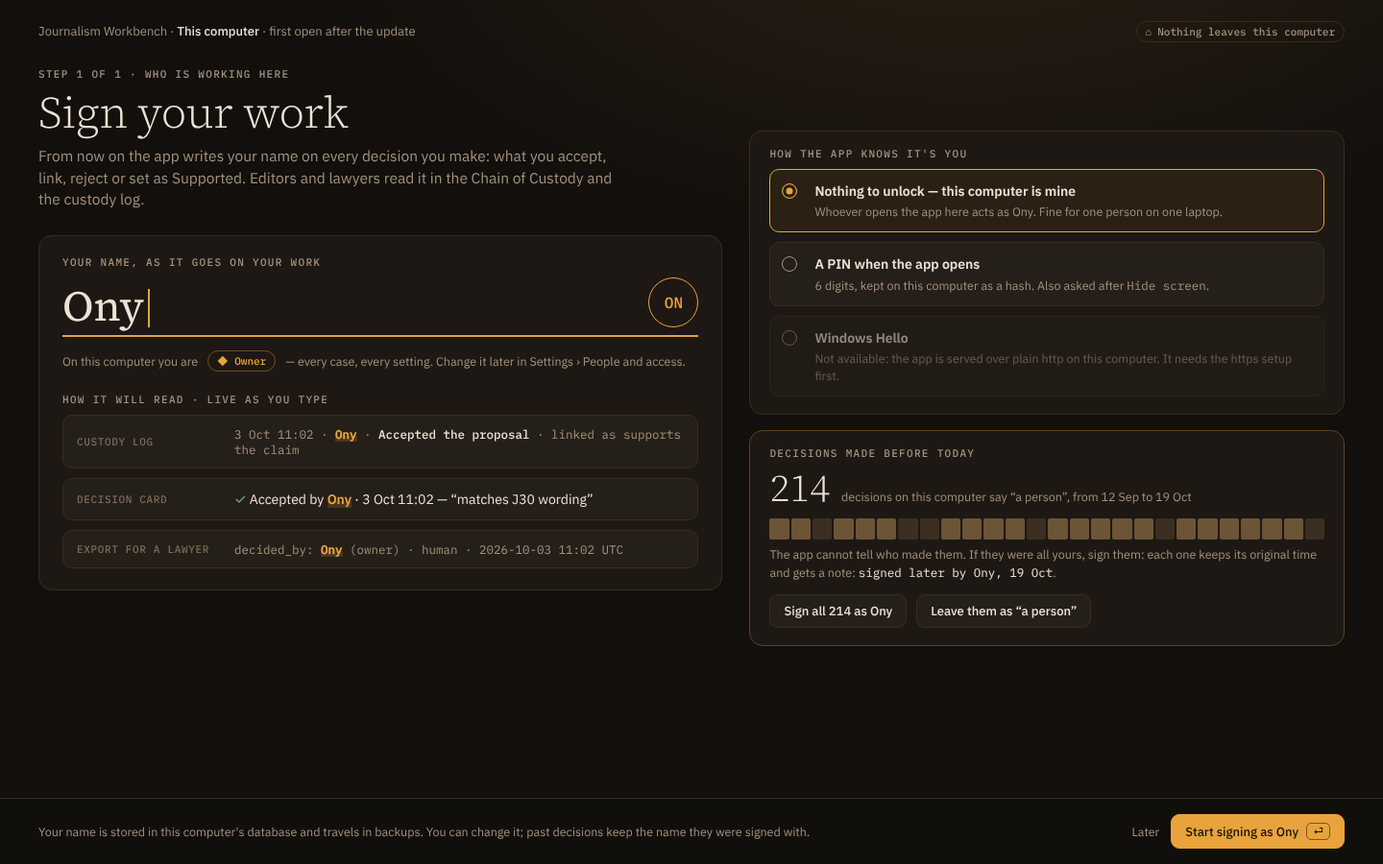
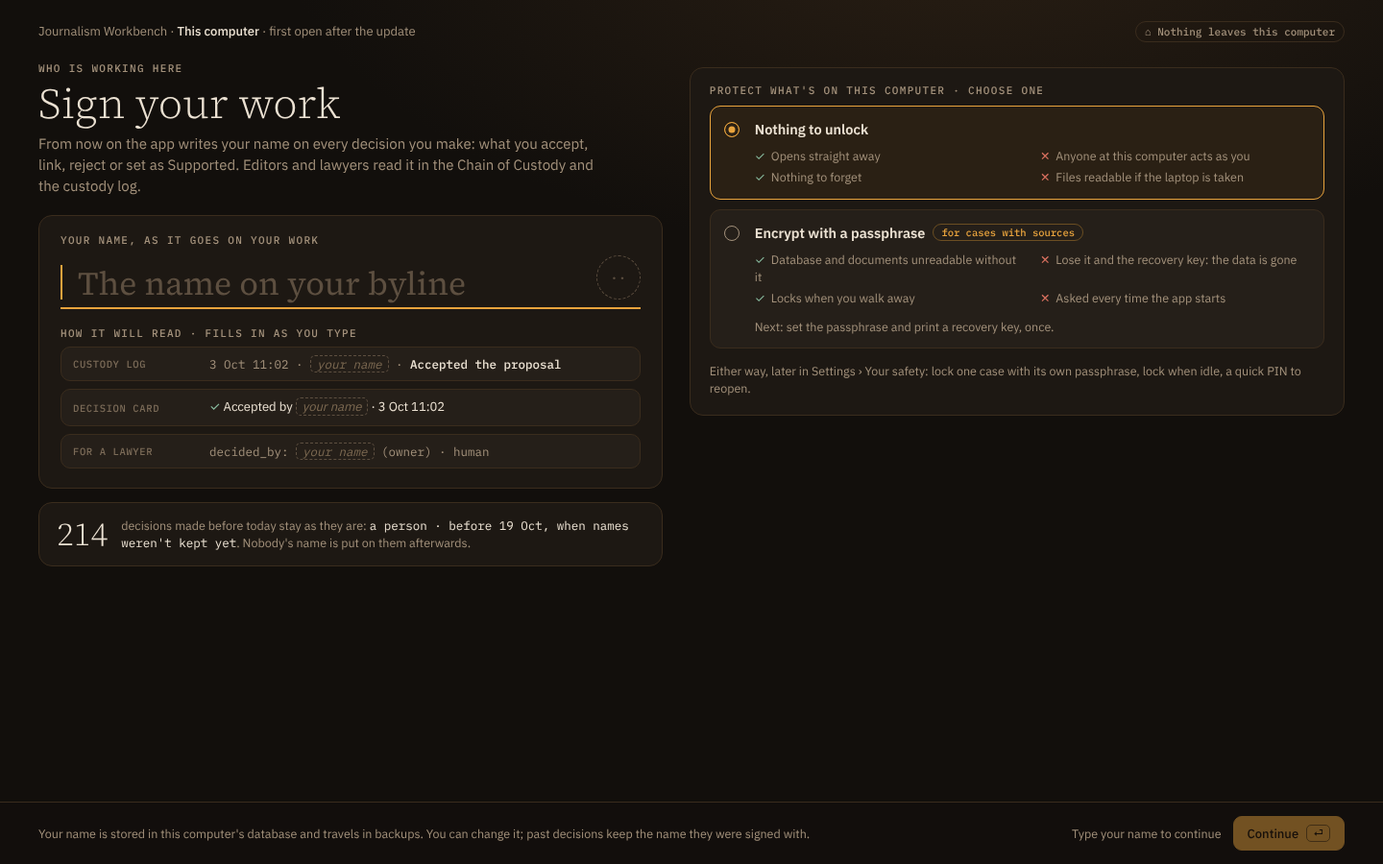
Proposed account mockups, second round: no signing for anyone, passphrase encryption, recovery key, locking (ACCOUNT_1-4)
Claude-Session: https://claude.ai/code/session_01PApySommmJ28kG56PUf4Xq

diff --git a/docs/design/mockups/proposed/ACCOUNT_1-sign-your-work.html b/docs/design/mockups/proposed/ACCOUNT_1-sign-your-work.html
@@ -1,68 +1,67 @@
 <!doctype html><html><head><meta charset="utf-8"><link rel="stylesheet" href="account.css"><style>
 .top{display:flex;justify-content:space-between;align-items:center;padding:22px 40px}
 .crumb{font-size:13px;color:var(--muted)} .crumb b{color:var(--text);font-weight:500}
-.wrap{display:grid;grid-template-columns:1.15fr 1fr;gap:28px;padding:6px 40px 0}
-h1{font:300 46px/1.05 'Source Serif 4 Variable';letter-spacing:-.01em;margin:10px 0 10px}
-.lede{color:var(--muted);font-size:15.5px;max-width:610px}
-.namebox{margin-top:26px;padding:22px 24px}
+.wrap{display:grid;grid-template-columns:1fr 1.05fr;gap:28px;padding:0 40px}
+h1{font:300 44px/1.05 'Source Serif 4 Variable';margin:8px 0 8px}
+.lede{color:var(--muted);font-size:15px;max-width:580px}
+.namebox{margin-top:20px;padding:20px 22px}
 .field{display:flex;align-items:flex-end;gap:16px;border-bottom:2px solid var(--amber);padding-bottom:8px;margin-top:10px}
-.field .val{font:400 44px/1 'Source Serif 4 Variable'}
-.caret{width:2px;height:40px;background:var(--amber);margin-left:-12px}
-.initials{margin-left:auto;width:52px;height:52px;border-radius:50%;border:1.5px solid var(--amber);display:grid;place-items:center;font:500 16px 'IBM Plex Mono';color:var(--amber)}
-.role{display:flex;gap:10px;margin-top:14px;align-items:center}
-.reads{margin-top:18px;display:grid;gap:10px}
-.read{display:grid;grid-template-columns:150px 1fr;gap:14px;align-items:center;padding:11px 14px;background:var(--p2);border:1px solid var(--line);border-radius:10px}
-.read .where{font:500 11px 'IBM Plex Mono';color:var(--faint);letter-spacing:.06em;text-transform:uppercase}
-.name{color:var(--amber);font-weight:600;background:linear-gradient(transparent 60%,rgba(232,163,61,.18) 0)}
+.ph{font:400 34px/1 'Source Serif 4 Variable';color:#5d4f40}
+.caret{width:2px;height:36px;background:var(--amber)}
+.initials{margin-left:auto;width:46px;height:46px;border-radius:50%;border:1.5px dashed #5d4f40;display:grid;place-items:center;font:500 14px 'IBM Plex Mono';color:#5d4f40}
+.reads{margin-top:16px;display:grid;gap:8px}
+.read{display:grid;grid-template-columns:130px 1fr;gap:12px;align-items:center;padding:9px 12px;background:var(--p2);border:1px solid var(--line);border-radius:10px;font-size:13px}
+.read .where{font:500 10.5px 'IBM Plex Mono';color:var(--faint);letter-spacing:.06em;text-transform:uppercase}
+.slot{color:#7d6a52;border:1px dashed #5d4f40;border-radius:5px;padding:0 6px;font-style:italic}
 .logrow{font:12.5px 'IBM Plex Mono';color:var(--muted)} .logrow b{color:var(--text);font-weight:500}
-.right{display:grid;gap:16px;align-content:start;margin-top:64px}
-.unlock{padding:18px 20px}
-.opt{display:grid;grid-template-columns:22px 1fr;gap:12px;padding:12px 12px;border:1px solid var(--line);border-radius:10px;margin-top:10px;background:var(--p2)}
+.before{margin-top:14px;padding:14px 18px;display:grid;grid-template-columns:auto 1fr;gap:14px;align-items:center}
+.count{font:300 34px/1 'Source Serif 4 Variable'}
+.right{padding-top:4px}
+.prot{padding:18px 20px}
+.opt{display:grid;grid-template-columns:20px 1fr;gap:12px;padding:13px 14px;border:1px solid var(--line);border-radius:11px;margin-top:10px;background:var(--p2)}
 .opt.on{border-color:var(--amber);background:#2a2014}
-.radio{width:16px;height:16px;border-radius:50%;border:1.5px solid var(--muted);margin-top:2px}
+.radio{width:16px;height:16px;border-radius:50%;border:1.5px solid var(--muted);margin-top:3px}
 .opt.on .radio{border-color:var(--amber);box-shadow:inset 0 0 0 3.5px #2a2014;background:var(--amber)}
-.opt b{font-weight:600} .opt small{display:block;color:var(--muted);font-size:12.5px;margin-top:2px}
-.opt.off{opacity:.55}
-.past{padding:18px 20px;border-color:#5b4422}
-.count{font:300 40px/1 'Source Serif 4 Variable';color:var(--text)}
-.bar{display:flex;gap:2px;margin:12px 0 6px;height:22px}
-.bar i{flex:1;border-radius:2px;background:#3b2f22}
-.bar i.d{background:#6b5536}
-.foot{position:absolute;left:0;right:0;bottom:0;display:flex;justify-content:space-between;align-items:center;padding:16px 40px;border-top:1px solid var(--line);background:rgba(18,15,12,.85)}
+.opt b{font-weight:600;font-size:14.5px}
+.pp{display:grid;grid-template-columns:1fr 1fr;gap:4px 16px;margin-top:8px;font-size:12.5px;color:var(--muted)}
+.pp span:before{margin-right:6px}
+.pp .y:before{content:'✓';color:var(--ok)} .pp .n:before{content:'✕';color:var(--bad)}
+.tag{font:500 10.5px 'IBM Plex Mono';border:1px solid #6b4e22;color:var(--amber);border-radius:999px;padding:1px 8px;margin-left:8px;vertical-align:2px}
+.extra{margin-top:12px;font-size:12.5px;color:var(--muted)}
+.foot{position:absolute;left:0;right:0;bottom:0;display:flex;justify-content:space-between;align-items:center;padding:14px 40px;border-top:1px solid var(--line);background:rgba(18,15,12,.88)}
 </style></head><body>
-<div class="top"><div class="crumb">Journalism Workbench · <b>This computer</b> · first open after the update</div><span class="chip"><span>⌂</span> Nothing leaves this computer</span></div>
+<div class="top"><div class="crumb">Journalism Workbench · <b>This computer</b> · first open after the update</div><span class="chip">⌂ Nothing leaves this computer</span></div>
 <div class="wrap">
  <div>
-  <p class="eyebrow">Step 1 of 1 · who is working here</p>
+  <p class="eyebrow">Who is working here</p>
   <h1>Sign your work</h1>
   <p class="lede">From now on the app writes your name on every decision you make: what you accept, link, reject or set as Supported. Editors and lawyers read it in the Chain of Custody and the custody log.</p>
   <div class="panel namebox">
    <p class="eyebrow">Your name, as it goes on your work</p>
-   <div class="field"><span class="val">Ony</span><span class="caret"></span><span class="initials">ON</span></div>
-   <div class="role"><span class="note">On this computer you are</span><span class="chip amber">◆ Owner</span><span class="note">— every case, every setting. Change it later in Settings › People and access.</span></div>
+   <div class="field"><span class="caret"></span><span class="ph">The name on your byline</span><span class="initials">··</span></div>
    <div class="reads">
-    <p class="eyebrow" style="margin-top:6px">How it will read · live as you type</p>
-    <div class="read"><span class="where">Custody log</span><span class="logrow">3 Oct 11:02 · <span class="name">Ony</span> · <b>Accepted the proposal</b> · linked as supports the claim</span></div>
-    <div class="read"><span class="where">Decision card</span><span><span style="color:var(--ok)">✓</span> Accepted by <span class="name">Ony</span> · 3 Oct 11:02 — “matches J30 wording”</span></div>
-    <div class="read"><span class="where">Export for a lawyer</span><span class="logrow">decided_by: <span class="name">Ony</span> (owner) · human · 2026-10-03 11:02 UTC</span></div>
+    <p class="eyebrow" style="margin-top:4px">How it will read · fills in as you type</p>
+    <div class="read"><span class="where">Custody log</span><span class="logrow">3 Oct 11:02 · <span class="slot">your name</span> · <b>Accepted the proposal</b></span></div>
+    <div class="read"><span class="where">Decision card</span><span><span style="color:var(--ok)">✓</span> Accepted by <span class="slot">your name</span> · 3 Oct 11:02</span></div>
+    <div class="read"><span class="where">For a lawyer</span><span class="logrow">decided_by: <span class="slot">your name</span> (owner) · human</span></div>
    </div>
+  </div>
+  <div class="panel before">
+   <span class="count">214</span>
+   <span class="note">decisions made before today stay as they are: <span class="mono" style="color:var(--text)">a person · before 19 Oct, when names weren't kept yet</span>. Nobody's name is put on them afterwards.</span>
   </div>
  </div>
  <div class="right">
-  <div class="panel unlock">
-   <p class="eyebrow">How the app knows it's you</p>
-   <div class="opt on"><span class="radio"></span><div><b>Nothing to unlock — this computer is mine</b><small>Whoever opens the app here acts as Ony. Fine for one person on one laptop.</small></div></div>
-   <div class="opt"><span class="radio"></span><div><b>A PIN when the app opens</b><small>6 digits, kept on this computer as a hash. Also asked after <span class="mono">Hide screen</span>.</small></div></div>
-   <div class="opt off"><span class="radio"></span><div><b>Windows Hello</b><small>Not available: the app is served over plain http on this computer. It needs the https setup first.</small></div></div>
-  </div>
-  <div class="panel past">
-   <p class="eyebrow">Decisions made before today</p>
-   <div style="display:flex;align-items:baseline;gap:12px;margin-top:10px"><span class="count">214</span><span class="note">decisions on this computer say “a person”, from 12 Sep to 19 Oct</span></div>
-   <div class="bar"><i class="d"></i><i class="d"></i><i></i><i class="d"></i><i class="d"></i><i class="d"></i><i></i><i></i><i class="d"></i><i class="d"></i><i class="d"></i><i class="d"></i><i></i><i class="d"></i><i class="d"></i><i class="d"></i><i class="d"></i><i class="d"></i><i></i><i class="d"></i><i class="d"></i><i class="d"></i><i class="d"></i><i class="d"></i><i class="d"></i><i></i></div>
-   <p class="note">The app cannot tell who made them. If they were all yours, sign them: each one keeps its original time and gets a note: <span class="mono" style="color:var(--text)">signed later by Ony, 19 Oct</span>.</p>
-   <div style="display:flex;gap:10px;margin-top:14px"><button class="btn">Sign all 214 as Ony</button><button class="btn">Leave them as “a person”</button></div>
+  <div class="panel prot">
+   <p class="eyebrow">Protect what's on this computer · choose one</p>
+   <div class="opt on"><span class="radio"></span><div><b>Nothing to unlock</b>
+    <div class="pp"><span class="y">Opens straight away</span><span class="n">Anyone at this computer acts as you</span><span class="y">Nothing to forget</span><span class="n">Files readable if the laptop is taken</span></div></div></div>
+   <div class="opt"><span class="radio"></span><div><b>Encrypt with a passphrase</b><span class="tag">for cases with sources</span>
+    <div class="pp"><span class="y">Database and documents unreadable without it</span><span class="n">Lose it and the recovery key: the data is gone</span><span class="y">Locks when you walk away</span><span class="n">Asked every time the app starts</span></div>
+    <p class="extra">Next: set the passphrase and print a recovery key, once.</p></div></div>
+   <p class="extra" style="margin-top:14px">Either way, later in Settings › Your safety: lock one case with its own passphrase, lock when idle, a quick PIN to reopen.</p>
   </div>
  </div>
 </div>
-<div class="foot"><span class="note">Your name is stored in this computer's database and travels in backups. You can change it; past decisions keep the name they were signed with.</span><span style="display:flex;gap:12px;align-items:center"><span class="note">Later</span><button class="btn primary">Start signing as Ony <span class="key" style="border-color:#7a5520;color:#1b1208">⏎</span></button></span></div>
+<div class="foot"><span class="note">Your name is stored in this computer's database and travels in backups. You can change it; past decisions keep the name they were signed with.</span><span style="display:flex;gap:12px;align-items:center"><span class="note">Type your name to continue</span><button class="btn primary" disabled>Continue <span class="key" style="border-color:#7a5520;color:#1b1208">⏎</span></button></span></div>
 </body></html>

diff --git a/docs/design/mockups/proposed/ACCOUNT_4-your-safety-locking.html b/docs/design/mockups/proposed/ACCOUNT_4-your-safety-locking.html
@@ -1,0 +1,72 @@
+<!doctype html><html><head><meta charset="utf-8"><link rel="stylesheet" href="account.css"><style>
+.top{display:flex;justify-content:space-between;align-items:center;padding:20px 32px 6px}
+.crumb{font-size:13px;color:var(--muted)} .crumb b{color:var(--text);font-weight:500}
+h1{font:300 40px/1 'Source Serif 4 Variable';padding:4px 32px 16px}
+.grid{display:grid;grid-template-columns:230px 1fr 380px;gap:18px;padding:0 32px}
+.side{padding:14px 10px}.side p.eyebrow{padding:10px 10px 6px}
+.row{display:flex;justify-content:space-between;padding:7px 10px;border-radius:8px;font-size:13.5px}
+.row span:last-child{font:12px 'IBM Plex Mono';color:var(--amber)}
+.row.cur{background:#2b2116;box-shadow:inset 3px 0 0 var(--amber)}
+.card{padding:16px 18px;margin-bottom:14px}
+.status{display:flex;align-items:center;gap:12px;padding:14px 18px;margin-bottom:14px;border-color:#3d5a4b}
+.status .big{font:300 22px 'Source Serif 4 Variable'}
+.sw{display:flex;justify-content:space-between;align-items:center;gap:16px;padding:10px 0;border-top:1px solid #2b2219}
+.sw:first-of-type{border-top:0}
+.sw b{font-weight:600}.sw small{display:block;color:var(--muted);font-size:12.5px}
+.toggle{width:40px;height:22px;border-radius:11px;background:#3b2f22;position:relative;flex:none}
+.toggle:after{content:'';position:absolute;top:3px;left:3px;width:16px;height:16px;border-radius:50%;background:#7a6a57}
+.toggle.on{background:#5a7d69}.toggle.on:after{left:21px;background:#e8f2ec}
+.seg{display:inline-flex;border:1px solid var(--line);border-radius:8px;overflow:hidden;flex:none}
+.seg span{padding:5px 10px;font:500 12px 'IBM Plex Mono';color:var(--muted)}.seg span.on{background:#3a2c17;color:var(--amber)}
+.case{display:grid;grid-template-columns:34px 1fr auto;gap:12px;align-items:center;padding:10px 12px;border:1px solid var(--line);border-radius:10px;background:var(--p2);margin-top:8px}
+.lk{width:30px;height:30px;border-radius:8px;display:grid;place-items:center;border:1px solid var(--line);font-size:14px}
+.lk.on{border-color:var(--amber);color:var(--amber)}
+.case small{display:block;color:var(--muted);font-size:12px}
+.lock{padding:0;overflow:hidden}
+.lockscreen{height:300px;background:radial-gradient(400px 220px at 50% 30%,#2a1f14,#100c09);display:grid;place-items:center;text-align:center;border-bottom:1px solid var(--line)}
+.lockscreen .sym{width:54px;height:54px;border-radius:50%;border:1.5px solid var(--amber);display:grid;place-items:center;color:var(--amber);font-size:20px;margin:0 auto 12px}
+.dots{display:flex;gap:10px;justify-content:center;margin:14px 0 8px}.dots i{width:12px;height:12px;border-radius:50%;border:1.5px solid var(--muted)}.dots i.f{background:var(--amber);border-color:var(--amber)}
+.lockcap{padding:14px 18px}
+</style></head><body>
+<div class="top"><div class="crumb">Settings · Your safety · <b>Locking</b></div><span class="chip">Search settings… <span class="key">⌘K</span></span></div>
+<h1>Locking</h1>
+<div class="grid">
+ <div class="panel side">
+  <p class="eyebrow">You</p>
+  <div class="row"><span>Your name</span><span>set</span></div>
+  <div class="row"><span>Appearance</span><span>Case Night</span></div>
+  <div class="row"><span>Notifications</span><span>in app</span></div>
+  <div class="row cur"><span>Your safety</span><span>encrypted</span></div>
+  <p class="eyebrow">Cases</p>
+  <div class="row"><span>New-case setup</span><span></span></div>
+  <div class="row"><span>Outside lookups</span><span>ask</span></div>
+  <p class="eyebrow">This computer</p>
+  <div class="row"><span>People and access</span><span>3</span></div>
+  <div class="row"><span>Backups</span><span>3 days ago</span></div>
+  <div class="row"><span>Security log</span><span></span></div>
+ </div>
+ <div>
+  <div class="panel status"><span style="color:var(--ok);font-size:20px">■</span><div><span class="big">Case data encrypted</span><div class="note">Passphrase set 19 Oct · recovery key checked · database and 86 files</div></div><span style="margin-left:auto;display:flex;gap:8px"><button class="btn">Change passphrase</button><button class="btn">New recovery key</button></span></div>
+  <div class="panel card">
+   <p class="eyebrow">When the app locks</p>
+   <div class="sw"><div><b>When I walk away</b><small>No key or click for this long. Unsaved writing is kept.</small></div><div class="seg"><span>5 min</span><span class="on">10 min</span><span>30 min</span><span>never</span></div></div>
+   <div class="sw"><div><b>When I press Hide screen</b><small>The cover comes down and the app locks behind it.</small></div><span class="toggle on"></span></div>
+   <div class="sw"><div><b>When the laptop sleeps or the lid closes</b><small>Only while the app is open in this browser.</small></div><span class="toggle on"></span></div>
+  </div>
+  <div class="panel card">
+   <p class="eyebrow">Reopening after a lock</p>
+   <div class="sw"><div><b>Quick PIN</b><small>Reopens after an idle lock or Hide screen in the same session. After a restart the passphrase is needed. 3 wrong tries and only the passphrase works.</small></div><span class="toggle on"></span></div>
+   <p class="note" style="margin-top:6px">The PIN is a convenience: it does not protect the files on disk. The passphrase does.</p>
+  </div>
+  <div class="panel card">
+   <p class="eyebrow">Cases locked on their own</p>
+   <div class="case"><span class="lk on">🔒</span><div><b>Kestrel harbour case</b><small>own passphrase · opening the app does not open it · its name shows here only to you</small></div><button class="btn">Change</button></div>
+   <div class="case"><span class="lk">◌</span><div><b>Fernhill planning files</b><small>opens with the app</small></div><button class="btn">Lock this case…</button></div>
+  </div>
+ </div>
+ <div class="panel lock">
+  <div class="lockscreen"><div><div class="sym">◆</div><div class="serif" style="font-size:22px;font-weight:300">Locked</div><div class="note">after 10 min away · your writing is kept</div><div class="dots"><i class="f"></i><i class="f"></i><i class="f"></i><i></i><i></i><i></i></div><div class="note">Quick PIN · <span style="color:var(--amber)">use the passphrase instead</span></div></div></div>
+  <div class="lockcap"><p class="eyebrow">What the lock looks like</p><p class="note" style="margin-top:6px">No case name, no names of people, no counts: someone looking over your shoulder sees only that the app is locked. The case title band comes back after unlocking.</p></div>
+ </div>
+</div>
+</body></html>

diff --git a/docs/design/mockups/proposed/ACCOUNT_3-encrypt-with-a-passphrase.html b/docs/design/mockups/proposed/ACCOUNT_3-encrypt-with-a-passphrase.html
@@ -1,0 +1,62 @@
+<!doctype html><html><head><meta charset="utf-8"><link rel="stylesheet" href="account.css"><style>
+.top{display:flex;justify-content:space-between;align-items:center;padding:22px 40px}
+.crumb{font-size:13px;color:var(--muted)} .crumb b{color:var(--text);font-weight:500}
+.steps{display:flex;gap:8px;align-items:center;font:500 11px 'IBM Plex Mono';color:var(--faint);letter-spacing:.06em}
+.steps .s{padding:4px 10px;border:1px solid var(--line);border-radius:999px}
+.steps .s.done{color:var(--ok);border-color:#3d5a4b}.steps .s.on{color:var(--amber);border-color:#6b4e22}
+h1{font:300 40px/1.05 'Source Serif 4 Variable';padding:4px 40px 18px}
+.wrap{display:grid;grid-template-columns:1fr 1.1fr;gap:24px;padding:0 40px}
+.box{padding:20px 22px}
+.input{display:flex;align-items:center;justify-content:space-between;border:1px solid var(--line);background:var(--p2);border-radius:10px;padding:12px 14px;margin-top:8px;font:500 18px 'IBM Plex Mono';letter-spacing:.2em;color:var(--text)}
+.input small{font:12px 'IBM Plex Sans Variable';letter-spacing:0;color:var(--muted)}
+.meter{display:flex;gap:4px;margin:12px 0 6px}.meter i{flex:1;height:6px;border-radius:3px;background:#3b2f22}.meter i.f{background:var(--ok)}
+.list{display:grid;gap:8px;margin-top:10px;font-size:13px}
+.list div{display:grid;grid-template-columns:18px 1fr;gap:8px}
+.y{color:var(--ok)} .n{color:var(--bad)}
+.rk{padding:20px 22px;border-color:#6b4e22;background:#1c150d}
+.code{display:grid;grid-template-columns:repeat(4,1fr);gap:10px;margin:14px 0}
+.code span{font:500 20px 'IBM Plex Mono';letter-spacing:.06em;color:var(--amber);background:#130e08;border:1px solid #4a3519;border-radius:8px;padding:10px 0;text-align:center}
+.acts{display:flex;gap:10px;margin-top:6px}
+.check{margin-top:16px;padding-top:14px;border-top:1px dashed #4a3519}
+.mini{display:flex;gap:10px;align-items:center;margin-top:8px}
+.mini .input{margin:0;width:150px;font-size:16px}
+.warn{margin-top:14px;padding:10px 12px;border-left:3px solid var(--bad);background:#24150f;border-radius:6px;font-size:12.5px;color:#e3b9ad}
+.foot{position:absolute;left:0;right:0;bottom:0;display:flex;justify-content:space-between;align-items:center;padding:14px 40px;border-top:1px solid var(--line);background:rgba(18,15,12,.88)}
+</style></head><body>
+<div class="top"><div class="crumb">Sign your work · <b>Encrypt with a passphrase</b></div>
+ <div class="steps"><span class="s done">✓ NAME</span><span class="s on">● PASSPHRASE</span><span class="s on">● RECOVERY KEY</span><span class="s">○ ENCRYPT</span></div></div>
+<h1>Lock the case data with a passphrase</h1>
+<div class="wrap">
+ <div style="display:grid;gap:16px;align-content:start">
+  <div class="panel box">
+   <p class="eyebrow">Your passphrase</p>
+   <div class="input">•••••••••••••••••••••••••<small>show</small></div>
+   <div class="meter"><i class="f"></i><i class="f"></i><i class="f"></i><i class="f"></i><i></i></div>
+   <p class="note">Strong: 5 words, about 64 bits. Four or more unrelated words beat a short password with symbols.</p>
+   <div class="input" style="margin-top:12px">•••••••••••••••••••••••••<small style="color:var(--ok)">✓ matches</small></div>
+  </div>
+  <div class="panel box">
+   <p class="eyebrow">What it protects</p>
+   <div class="list">
+    <div><span class="y">✓</span><span>The case database: records, claims, decisions, notes, the custody log</span></div>
+    <div><span class="y">✓</span><span>Every stored document and picture (86 files, 1.4 GB)</span></div>
+    <div><span class="y">✓</span><span>Backups made from now on, with the same passphrase</span></div>
+    <div><span class="n">✕</span><span>The screen while the app is open and unlocked: use Hide screen or lock when idle</span></div>
+    <div><span class="n">✕</span><span>Copies you saved elsewhere before today, and exports you send out</span></div>
+   </div>
+  </div>
+ </div>
+ <div class="panel rk">
+  <p class="eyebrow" style="color:var(--amber)">Recovery key · shown once</p>
+  <p class="note" style="margin-top:6px">If you forget the passphrase, this is the only way back in. The app does not keep a copy and nobody, including the people who made the app, can reset it.</p>
+  <div class="code"><span>K7RW</span><span>9QXD</span><span>M2HF</span><span>T4PB</span><span>W8NC</span><span>3JZL</span><span>V6YE</span><span>R5GA</span></div>
+  <div class="acts"><button class="btn">Print it</button><button class="btn">Save as a file…</button><span class="note" style="align-self:center">Keep it away from this computer: a drawer, a safe, a trusted person.</span></div>
+  <div class="check">
+   <p class="eyebrow">Check you have it</p>
+   <div class="mini"><span class="note">Type group 6</span><div class="input">3JZL</div><span style="color:var(--ok);font-size:13px">✓ right</span></div>
+  </div>
+  <div class="warn">Lose both the passphrase and this key and the case data cannot be opened again, by anyone.</div>
+ </div>
+</div>
+<div class="foot"><span class="note">Encrypting 1.4 GB takes about 2 minutes. The app stays closed until it finishes; nothing is sent anywhere.</span><span style="display:flex;gap:12px;align-items:center"><button class="btn">Back</button><button class="btn primary">Encrypt now</button></span></div>
+</body></html>

diff --git a/docs/design/mockups/proposed/ACCOUNT_2-people-and-access.html b/docs/design/mockups/proposed/ACCOUNT_2-people-and-access.html
@@ -57,10 +57,10 @@ td small{display:block;color:var(--muted);font-size:12px;margin-top:2px}
   <table>
    <tr><th>Person</th><th>Role here</th><th>How they get in</th><th>Last seen</th><th></th></tr>
    <tr><td><div class="who"><span class="av me">ON</span><div>Ony <span class="chip amber" style="margin-left:6px">you</span><small>signs as “Ony”</small></div></div></td>
-       <td>◆ Owner<small>every case, every setting</small></td><td>This computer<small>nothing to unlock</small></td><td class="mono">now</td>
+       <td>◆ Owner<small>every case, every setting</small></td><td>This computer<small>passphrase · data encrypted</small></td><td class="mono">now</td>
        <td><div class="acts"><button class="btn">Rename</button><button class="btn" disabled>Remove</button></div><div class="why">The owner can't be removed.</div></td></tr>
    <tr><td><div class="who"><span class="av">MR</span><div>Maya Rees<small>signs as “Maya Rees”</small></div></div></td>
-       <td>● Reporter<small>reads, decides, writes</small></td><td>Key <span class="mono">••••41</span><small>from her laptop, over the network</small></td><td class="mono">2 h ago</td>
+       <td>● Reporter<small>reads, decides, writes</small></td><td>Key <span class="mono">••••41</span><small>from her laptop · expires 14 Nov</small></td><td class="mono">2 h ago</td>
        <td><div class="acts"><button class="btn">Change role</button><button class="btn">New key</button><button class="btn">Remove</button></div></td></tr>
    <tr><td><div class="who"><span class="av">AP</span><div>A. Patel (legal)<small>signs as “A. Patel”</small></div></div></td>
        <td>○ Viewer<small>reads only, decides nothing</small></td><td>Key <span class="mono">••••9c</span><small>expires 2 Nov</small></td><td class="mono">3 days ago</td>
@@ -72,7 +72,7 @@ td small{display:block;color:var(--muted);font-size:12px;margin-top:2px}
    <div class="barrow"><span>Maya Rees</span><div class="track"><i style="width:22%"></i></div><span class="mono">46</span></div>
    <div class="barrow"><span>A. Patel</span><div class="track"><i style="width:2%"></i></div><span class="mono">1</span></div>
    <div class="barrow"><span style="color:var(--muted)">a person</span><div class="track"><i style="width:30%;background:#4a3d2e"></i></div><span class="mono">63</span></div>
-   <p class="note" style="margin-top:8px">“a person”: decided before names were kept. Sign them from Your name if they were yours.</p>
+   <p class="note" style="margin-top:8px">“a person”: decided before 19 Oct, when names weren't kept yet. They stay that way.</p>
   </div>
  </div>
  <div style="display:grid;gap:0;align-content:start">
@@ -84,7 +84,7 @@ td small{display:block;color:var(--muted);font-size:12px;margin-top:2px}
     <div class="r"><span>○</span><div><b>Viewer</b><small>Reads only. Good for an editor or a lawyer.</small></div></div>
     <div class="r"><span>■</span><div><b>Admin</b><small>Everything a reporter can, plus deleting and restoring this case.</small></div></div>
    </div>
-   <div style="display:flex;gap:8px;margin-top:12px;align-items:center"><span class="note">Key lasts</span><span class="chip amber">30 days</span><span class="chip">90 days</span><span class="chip">until removed</span></div>
+   <div style="display:flex;gap:8px;margin-top:12px;align-items:center"><span class="note">Key lasts</span><span class="chip amber">30 days</span><span class="chip">90 days</span><span class="note">· renew from their row</span></div>
    <button class="btn primary" style="margin-top:14px;width:100%;justify-content:center">Make a one-time key for Jo</button>
    <div class="keybox"><p class="eyebrow" style="color:var(--amber)">Shown once · copy it to Jo yourself</p><code>jw_7Kq2-Rv9m-T4xP-8nWc</code><p class="note" style="margin-top:6px">The app keeps only a fingerprint of it. Send it the way you'd send a source's number, not by email.</p></div>
   </div>

diff --git a/docs/design/mockups/proposed/README.md b/docs/design/mockups/proposed/README.md
@@ -3,12 +3,17 @@
 Mockups waiting for Ony's approval. Nothing here is built until he approves it; once approved, the picture moves up to
 `docs/design/mockups/` and gets a row in that README and in `MOCKUP_BUILD_LIST.md`.
 
-| File | Screen | Why |
-|---|---|---|
-| ACCOUNT_1-sign-your-work.png (.html) | First open after the update: your name, how the app knows it's you, signing the decisions made before names were kept | Decisions now store who made them (PR #88), but on this computer there is no account, so they say "a person" (Ony, 19 Oct: "probably have a login and account") |
-| ACCOUNT_2-people-and-access.png (.html) | Settings › People and access: who can reach the case, their role by shape and word, their key, who decided what, add a person with a one-time key | The backend already has accounts, roles per case and per-person keys (ADR-0002) with no screen for them |
+| File | Screen |
+|---|---|
+| ACCOUNT_1-sign-your-work.png | First open after the update: your name (empty until typed; never filled in for anyone), how it will read, the choice "Nothing to unlock" or "Encrypt with a passphrase" with what each does and doesn't protect. Decisions made before today stay "a person · before 19 Oct"; nobody's name is put on them afterwards (Ony, 19 Oct). |
+| ACCOUNT_2-people-and-access.png | Settings › People and access: who can reach the case, role by shape and word, their key (30 or 90 days, renewed from their row; no key that never runs out), who decided what, add a person with a one-time key. |
+| ACCOUNT_3-encrypt-with-a-passphrase.png | Setting the passphrase: strength, what it protects and what it doesn't, the recovery key shown once (print or save, then type one group back to prove you have it), the warning that losing both loses the data. |
+| ACCOUNT_4-your-safety-locking.png | Settings › Your safety › Locking: encryption status, lock when idle (5/10/30 min/never), lock on Hide screen, lock on sleep, quick PIN to reopen within a session (a convenience, not protection), cases locked on their own passphrase; what the lock screen shows (nothing about the case). |
 
-Open questions in these mockups for Ony: a PIN or nothing by default; whether "Sign all as Ony" is offered at all (the
-app cannot tell who made the old decisions); whether Windows Hello is worth the https setup; key lifetimes.
+Decided with Ony (19 Oct): no "sign all past decisions" and no name filled in for anyone; encryption is offered, not the
+default; no Windows Hello for now; keys 30 days by default, 90 the only other choice.
+
+Building it needs an ADR: encrypting the database and stored documents at rest (SQLite and the Docker PostgreSQL
+setup), the key derivation, and encrypted backups.
 
 The .html files render the pictures (`account.css` uses the fonts the app ships with).
